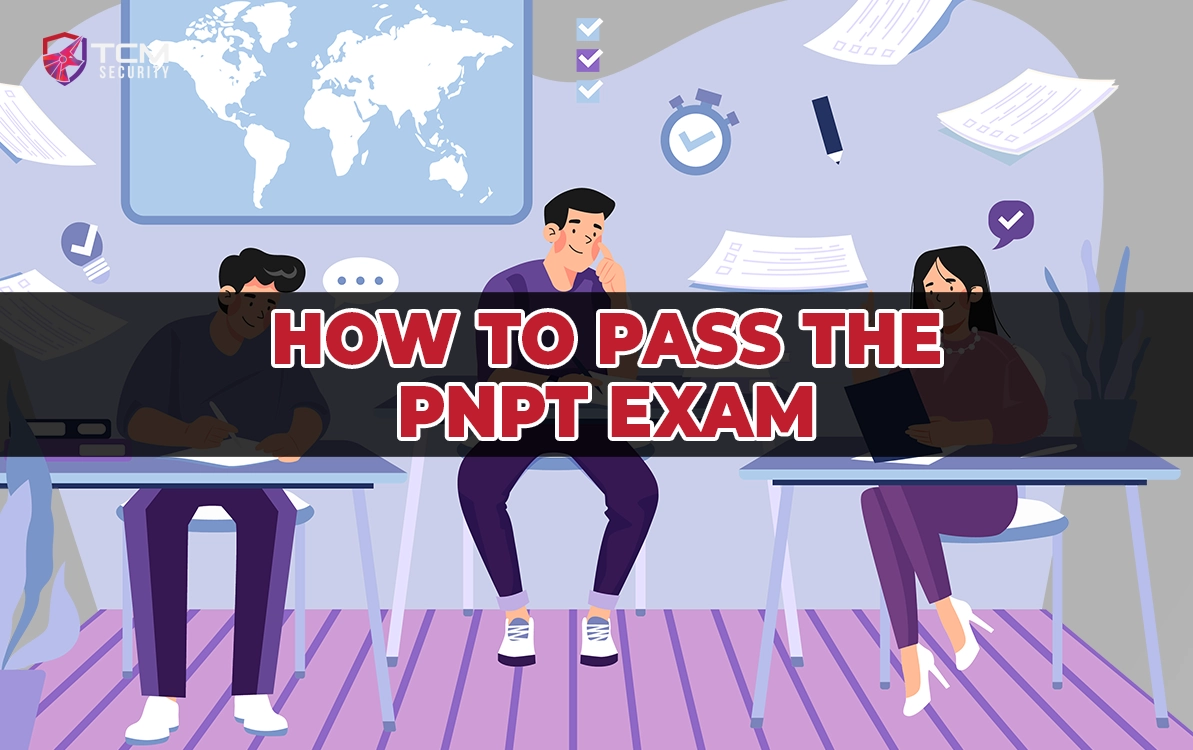
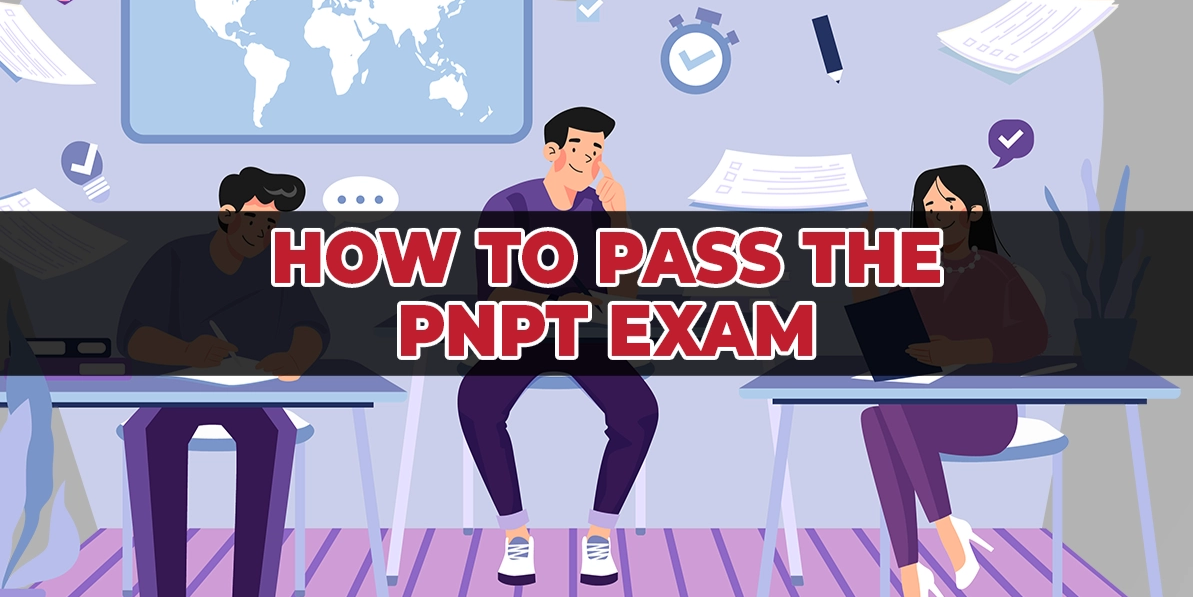
add featured image

diff --git a/_posts/2024-05-05-Tips-passing-PNPT.md b/_posts/2024-05-05-Tips-passing-PNPT.md
@@ -3,9 +3,9 @@ title: Tips Passing PNPT
 date: 2024-05-05 08:00:00 +0800
 categories: journal personal
 tags: study certification
+image: /assets/general/pass-pnpt.png
 ---
 
-![](/assets/general/pass-pnpt.png)
 
 Having purchased my PNPT Voucher for **over a year ago**, I was intended to actually took the exam by **2023** but I feel I wasn't prepared enough even though they gave you free retake. Also balancing my job as a **SOC Analyst**, where I work in shifts including nights and mornings, left me with limited free time. Despite this, I dedicated most of my available time to studying for the exam and after one year I finally took the leap and succeed in **passing** it!
 

diff --git a/_posts/2024-05-04-Is-Cybersecurity-Certification-a-scam.md b/_posts/2024-05-04-Is-Cybersecurity-Certification-a-scam.md
@@ -1,11 +1,10 @@
 ---
 title: Is cybersecurity certification a scam ?
-date: 2024-05-05 08:00:00 +0800
+date: 2024-04-05 08:00:00 +0800
 categories: journal personal
 tags: study certification
+image: /assets/general/pnpt.png
 ---
-
-![](/assets/general/pnpt.png)
 
 ## Is it a scam ?
 

diff --git a/_posts/2024-05-02-Whoami.md b/_posts/2024-05-02-Whoami.md
@@ -2,7 +2,8 @@
 title: Whoami - TamaGorengs
 date: 2024-05-02 23:25:00 +0800
 categories: journal personal
-tags: blog     # TAG names should always be lowercase
+tags: blog
+image: /assets/general/tamagorengs-pc.png
 ---
 
 ![](/assets/general/tamagorengs-pc.png)

diff --git a/_posts/2024-05-03-Why-write-cybersecurity-blog.md b/_posts/2024-05-03-Why-write-cybersecurity-blog.md
@@ -3,9 +3,8 @@ title: Why write cybersecurity blog
 date: 2024-05-03 08:00:00 +0800
 categories: journal personal
 tags: study   
+image: /assets/general/takenotes.png
 ---
-
-![](/assets/general/takenotes.png)
 
 ## 1. Develop writing skill
 

diff --git a/_posts/2024-04-24-HTB-DevVortex-Writeup.md b/_posts/2024-04-24-HTB-DevVortex-Writeup.md
@@ -3,6 +3,7 @@ title: HTB Writeup - DevVortex
 date: 2024-04-24 02:32:33 +0800
 categories: writeup hackthebox 
 tags: ctf  
+image: /assets/general/devvortex.png
 ---
 
 
